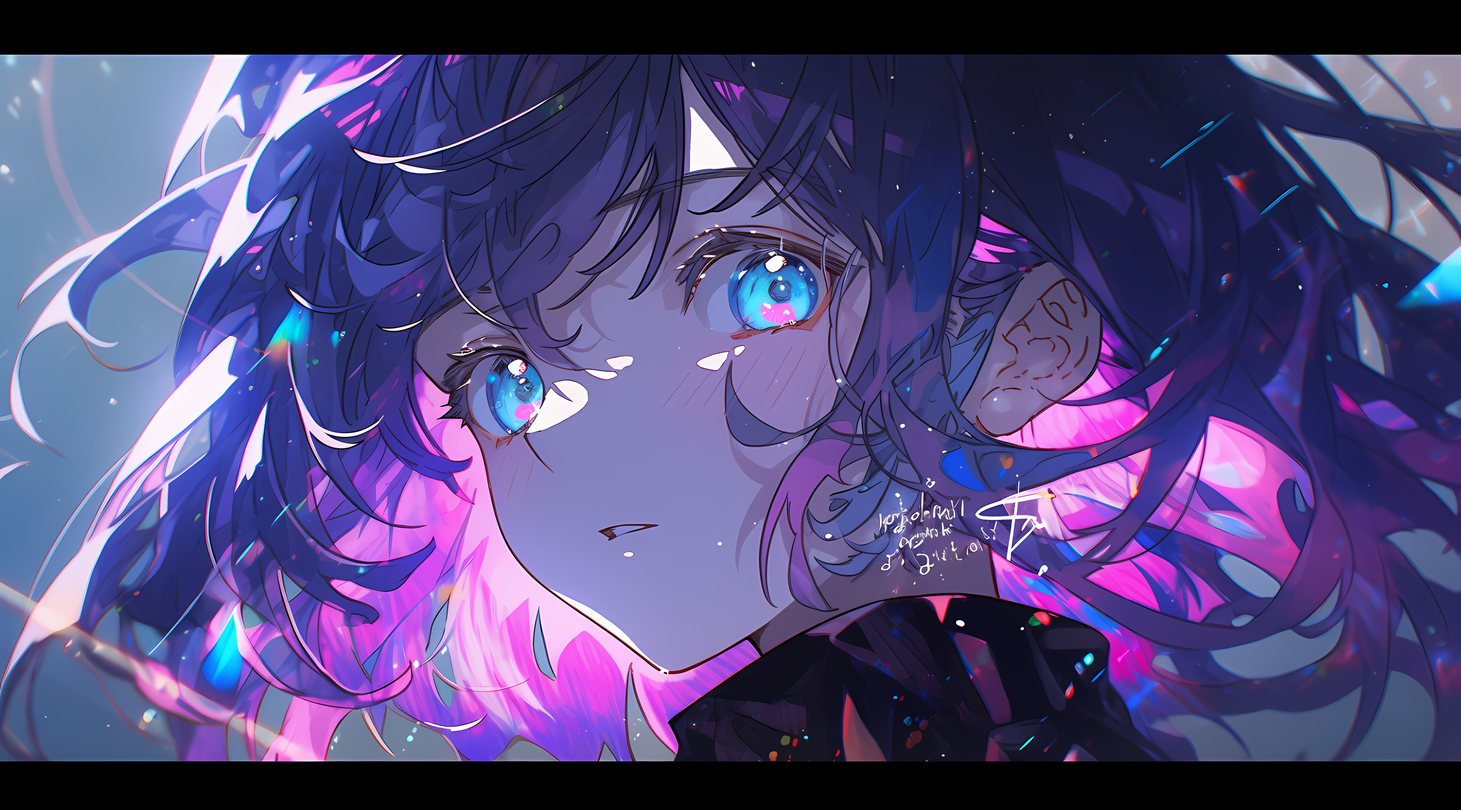
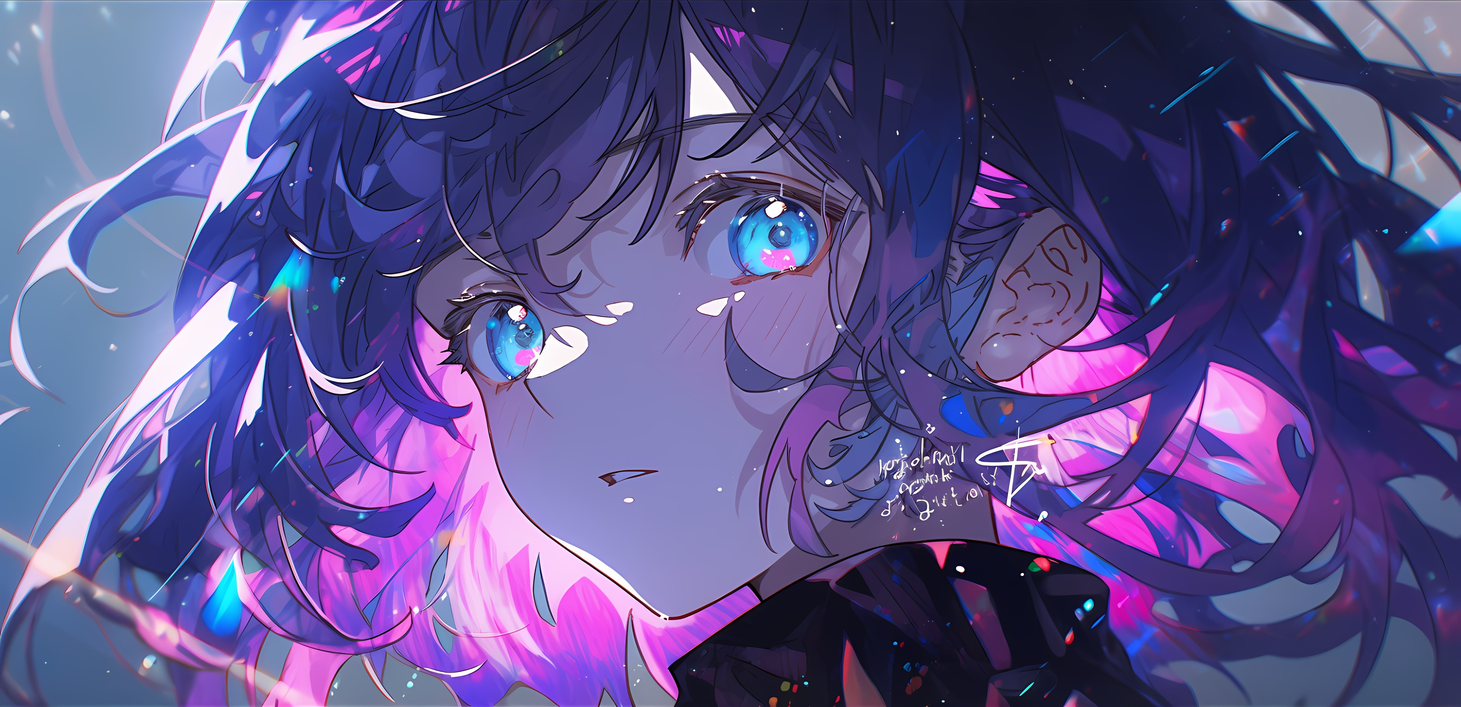
更新居中，去除图片黑边

diff --git a/README.md b/README.md
@@ -1,8 +1,12 @@
 ### 不想学习🤣🤣
 ![Anurag's GitHub stats](https://github-readme-stats.vercel.app/api?username=Sugar0612&show_icons=true&theme=radical)
 
+<div id="img" align=center>
+
 ![](https://img.shields.io/badge/language-Cpp-blue)   ![](https://img.shields.io/badge/Engage_in-Engine_technology_development-yellow)  
 ![](https://img.shields.io/badge/LoveGame-Valorante-red)  ![](https://img.shields.io/badge/性格-开朗-red) ![](https://img.shields.io/badge/爱好-二次元-red)
+
+</div>
 
 ![头像](image/头像.jpg)
 
